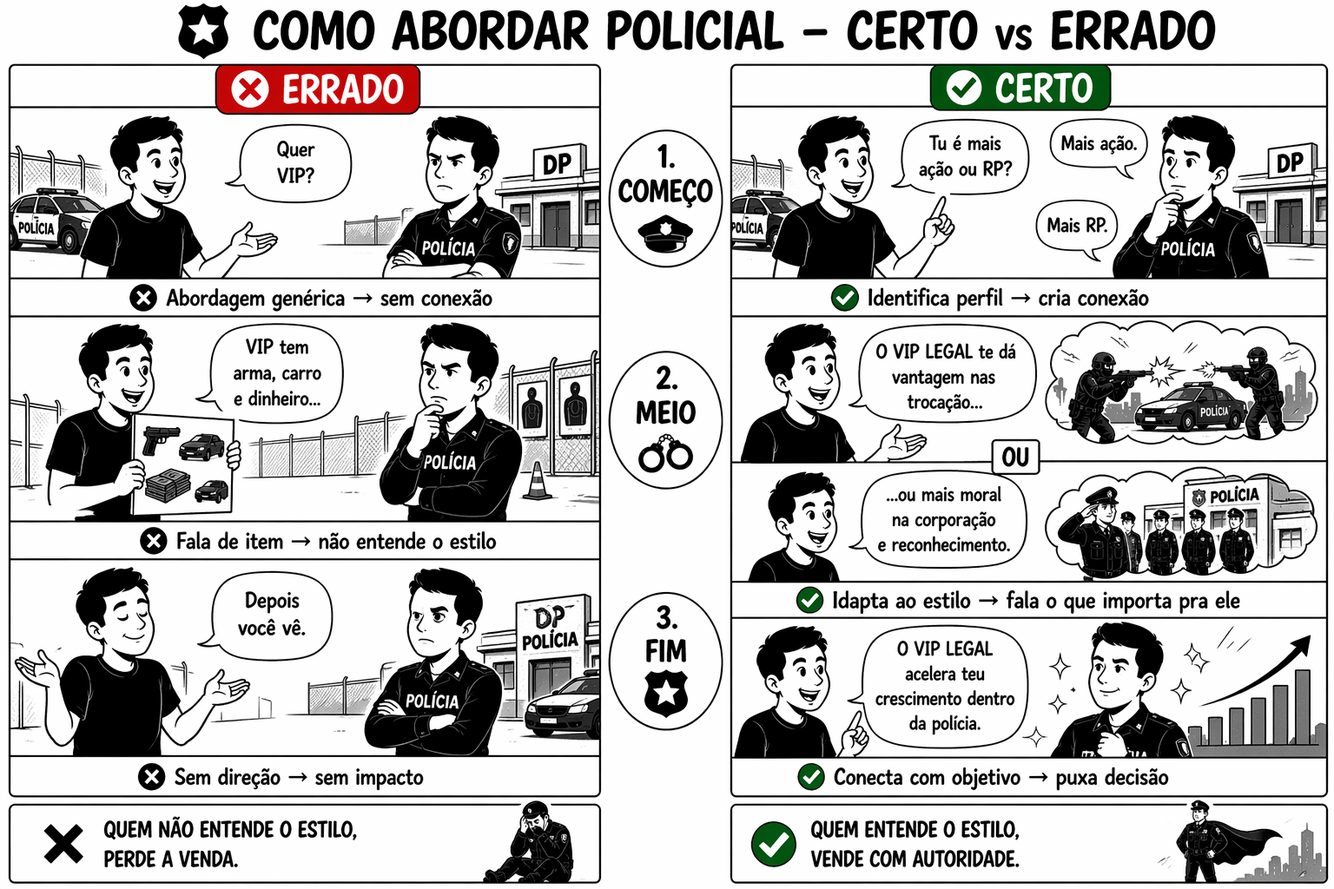
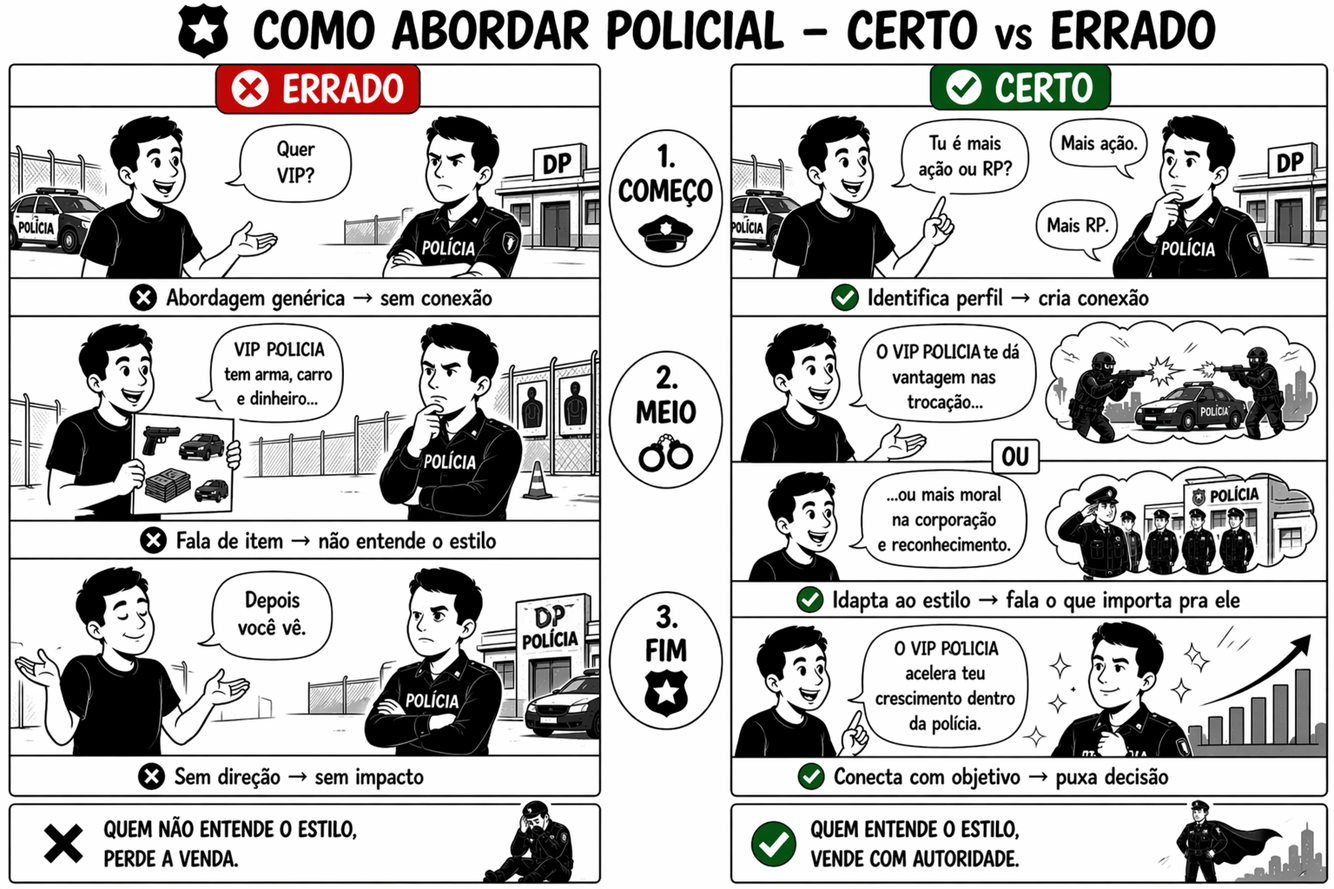
Add files via upload

diff --git a/app.js b/app.js
@@ -7,10 +7,10 @@ const DataAccess = {
             description: 'Essa etapa ensina como abordar um líder de facção e fazer ele desejar crescer, dominar e construir uma facção grande e respeitada.',
             image: 'dono de faccao.jpg',
             sections: [
-                { isSectionTitle: true, title: 'COMO ABORDAR (LIDER DE FACÇÃO)' },
+                { isSectionTitle: true, title: 'COMO ABORDAR (LÍDER DE FACÇÃO)' },
                 { isFull: true, title: '🎯 Abordagem Estratégica & Foco', items: [
                     '“E aí mano, como que tá tua fac hoje?”', 
-                    '“Quantos membros estão pegando ativos aí a noite? Tu quer crescer mais ainda ou tá suave como tá?”', 
+                    '“Quantos membros estão pegando ativos aí à noite? Tu quer crescer mais ainda ou tá suave como tá?”', 
                     '“O que mais tá pegando hoje? Fac tá com muito farm aí? Tem bastante grana? Tá ganhando os eventos?”',
                     '---',
                     '“Mano, facção grande não cresce só na bala... Tem que ter estrutura aqui para as pessoas quererem ficar.”', 
@@ -24,7 +24,7 @@ const DataAccess = {
                     '---', 
                     '<div style="text-align: left;">🏆 <strong>Ele não quer item — ele quer uma facção dominante.</strong></div>'
                 ]},
-                { isFull: true, isRecommendationHeader: true, title: '🛒 3. Recomendações de Produtos', items: [] },
+                { isFull: true, isRecommendationHeader: true, title: '🛒 Recomendações de Produtos', items: [] },
                 { title: '🏰 VIP Facção Premium', items: [
                     '<div class="aligned-list-item"><strong class="checkIcon">✔</strong> <span>Mais carros, baú extra e log de baú.</span></div>', 
                     '<div class="aligned-list-item"><strong class="checkIcon">✔</strong> <span>Mais controle para o Líder.</span></div>', 
@@ -64,7 +64,7 @@ const DataAccess = {
             id: 'novato',
             shortTitle: 'Novato (Iniciante) 🔰',
             title: 'Cliente Novato (Iniciante) 🔰',
-            description: 'Você está começando agora. A gente te ajuda a evoluir e ficar forte na cidade!',
+            description: 'Essa etapa ensina como abordar um novato e fazer ele desejar ser reconhecido, crescer, dominar e construir uma reputação respeitada na cidade.',
             image: 'novato.jpg',
             sections: [
                 { isSectionTitle: true, title: 'COMO ABORDAR (NOVATO)' },
@@ -80,9 +80,23 @@ const DataAccess = {
                     '<span style="font-size: 1.35rem; display: block; margin: 12px 0; color: var(--accent-gold); font-weight: 800; text-align: left;">🛍 O QUE VOCÊ ESTÁ VENDENDO DE VERDADE:</span>', 
                     '<div class="aligned-list-item"><strong class="bulletIcon">•</strong> <span>🚀 Evolução rápida.</span></div>', 
                     '<div class="aligned-list-item"><strong class="bulletIcon">•</strong> <span>⚡ Vantagem inicial.</span></div>', 
-                    '<div class="aligned-list-item"><strong class="bulletIcon">•</strong> <span>😌 Facilidade (menos dor de cabeça).</span></div>', 
-                    '---', 
-                    '<div style="text-align: left;">🏁 <strong>Ele não quer ficar perdido — quer começar forte!</strong></div>'
+                    '<div class="aligned-list-item"><strong class="bulletIcon">•</strong> <span>😌 Facilidade (menos dor de cabeça).</span></div>'
+                ]},
+                { isFull: true, isRecommendationHeader: true, title: '🛒 Recomendações de Produtos', items: [] },
+                { title: '🥇 VIP OURO', items: [
+                    '<div class="aligned-list-item"><strong class="checkIcon">✔</strong> <span>Foco principal de evolução.</span></div>'
+                ]},
+                { title: '🚀 VIP LANÇAMENTO', items: [
+                    '<div class="aligned-list-item"><strong class="checkIcon">✔</strong> <span>Exclusividade e benefícios.</span></div>'
+                ]},
+                { title: '🚗 VEÍCULOS START', items: [
+                    '<div class="aligned-list-item"><strong class="checkIcon">✔</strong> <span>Perfeito para a entrada.</span></div>'
+                ]},
+                { title: '🎟 SANTAPASS', items: [
+                    '<div class="aligned-list-item"><strong class="checkIcon">✔</strong> <span>Recompensas e itens únicos.</span></div>'
+                ]},
+                { isCenteredCard: true, title: '🎵 SANTAFY', items: [
+                    '<div class="aligned-list-item"><strong class="checkIcon">✔</strong> <span>Garante uma experiência melhor na cidade.</span></div>'
                 ]},
                 { isError: true, title: '❌ ERROS DO VENDEDOR (CLIENTE INICIANTE)', items: [
                     '<div class="aligned-list-item"><strong>🚫</strong> <span>Não entender que ele é iniciante.</span></div>', 
@@ -98,7 +112,7 @@ const DataAccess = {
             id: 'policial',
             shortTitle: 'Policial (PVP / RP) 🚓',
             title: 'Cliente Policial (PVP / RP) 🚓',
-            description: 'Entenda o jogador, conecte o produto com o que ele valoriza: UTILIDADE E RECONHECIMENTO.',
+            description: 'Essa etapa ensina como abordar um policial e fazer ele desejar crescer de patente na corporação, construir uma reputação e ser respeitado na cidade.',
             image: 'policial.jpg',
             sections: [
                 { isSectionTitle: true, title: 'COMO ABORDAR (POLICIAL)' },
@@ -110,24 +124,38 @@ const DataAccess = {
                     '“Mano, tendo VIP tu acaba ganhando muita moral... A galera sempre pede carro emprestado.”', 
                     '“Suas ações te deixam conhecido como gente boa, útil — e isso pesa MUITO para subir de cargo.”', 
                     '---', 
-                    '<span style="font-size: 1.35rem; display: block; margin: 12px 0; color: var(--accent-gold); font-weight: 800; text-align: left;">🛍 VENDENDO DE VERDADE:</span>', 
+                    '<span style="font-size: 1.35rem; display: block; margin: 12px 0; color: var(--accent-gold); font-weight: 800; text-align: left;">🛍 O QUE VOCÊ ESTÁ VENDENDO DE VERDADE:</span>', 
                     '<div class="aligned-list-item"><strong class="bulletIcon">•</strong> <span>🛠 Utilidade (ferramentas, economia de tempo).</span></div>', 
                     '<div class="aligned-list-item"><strong class="bulletIcon">•</strong> <span>🎖 Reconhecimento (status na corporação, autoridade).</span></div>'
                 ]},
+                { isFull: true, isRecommendationHeader: true, title: '🛒 Recomendações de Produtos', items: [] },
+                { title: '👮♂ PERFIL: POLICIAL RP', items: [
+                    '<div style="margin-bottom: 12px; color: #ccc; font-size: 0.95rem;">Focado em evolução dentro da corporação, reconhecimento e presença na cidade.</div>',
+                    '<div class="aligned-list-item"><strong class="checkIcon">💎</strong> <span><strong>VIP Polícia:</strong> vantagens dentro do RP policial</span></div>',
+                    '<div class="aligned-list-item"><strong class="checkIcon">🏡</strong> <span><strong>Voucher de Casa:</strong> estrutura e estabilidade</span></div>',
+                    '<div class="aligned-list-item"><strong class="checkIcon">🆔</strong> <span><strong>ID:</strong> identidade e presença na cidade</span></div>'
+                ], footer: '➡ Ideal para quem quer crescer de patente, construir reputação e ser respeitado no RP' },
+                { title: '🔫 PERFIL: POLICIAL PvP', items: [
+                    '<div style="margin-bottom: 12px; color: #ccc; font-size: 0.95rem;">Focado em combate, desempenho e superioridade nas ações.</div>',
+                    '<div class="aligned-list-item"><strong class="checkIcon">⚡</strong> <span><strong>VIP PvP:</strong> vantagem direta em combate</span></div>',
+                    '<div class="aligned-list-item"><strong class="checkIcon">👑</strong> <span><strong>VIP Platinum:</strong> pacote mais completo e forte</span></div>',
+                    '<div class="aligned-list-item"><strong class="checkIcon">👕</strong> <span><strong>Peça de Roupa Exclusiva:</strong> identidade visual e destaque</span></div>'
+                ], footer: '➡ Ideal para quem quer dominar ações, ter desempenho alto e impor respeito no PvP' },
                 { isError: true, title: '❌ ERROS DO VENDEDOR (CLIENTE POLICIAL)', items: [
                     '<div class="aligned-list-item"><strong>🚫</strong> <span>Não entender se ele é focado em PVP ou RP.</span></div>', 
                     '<div class="aligned-list-item"><strong>🚫</strong> <span>Ignorar o tempo de corporação e o cargo dele.</span></div>', 
                     '<div class="aligned-list-item"><strong>🚫</strong> <span>Não oferecer utilidade para a rotina dele.</span></div>', 
                     '<div class="aligned-list-item"><strong>🚫</strong> <span>Não ativar o gatilho de status perante os colegas.</span></div>', 
                     '<div class="aligned-list-item"><strong>🚫</strong> <span>Focar só em preço e não em moral/destaque.</span></div>'
-                ]}
+                ]},
+                { isComic: true, title: '⚽ ESTRATÉGIA DE ABORDAGEM: CERTO vs ERRADO', image: 'quadrinho_policial.jpg' }
             ]
         },
         'medico': {
             id: 'medico',
             shortTitle: 'Médico (RP) 👨⚕',
             title: 'Cliente Médico (RP) 👨⚕',
-            description: 'Vender para um médico não é falar do produto. É ENTENDER, CONECTAR E GERAR VALOR REAL.',
+            description: 'Essa etapa ensina como abordar um médico e fazer ele desejar crescer na hierarquia do hospital, ter status social e respeito na cidade.',
             image: 'medico.jpg',
             sections: [
                 { isSectionTitle: true, title: 'COMO ABORDAR (MÉDICO)' },
@@ -139,16 +167,23 @@ const DataAccess = {
                     '“Resultados extraordinários vêm de estrutura, pessoas e processos.”', 
                     '“Aqui dentro tu não precisa ser só mais um médico... Tu pode ser referência na cidade.”', 
                     '---', 
-                    '<span style="font-size: 1.35rem; display: block; margin: 12px 0; color: var(--accent-gold); font-weight: 800; text-align: left;">🛍 O QUE VENDER PARA O MÉDICO:</span>',
-                    '<div class="aligned-list-item"><strong class="checkIcon">✔</strong> <span>Mansão</span></div>',
-                    '<div class="aligned-list-item"><strong class="checkIcon">✔</strong> <span>VIP</span></div>',
-                    '<div class="aligned-list-item"><strong class="checkIcon">✔</strong> <span>Voucher de casa</span></div>',
-                    '<div class="aligned-list-item"><strong class="checkIcon">✔</strong> <span>Santapass</span></div>'
+                    '<span style="font-size: 1.35rem; display: block; margin: 12px 0; color: var(--accent-gold); font-weight: 800; text-align: left;">🛍 O QUE VOCÊ ESTÁ VENDENDO DE VERDADE:</span>',
+                    '<div class="aligned-list-item"><strong class="bulletIcon">•</strong> <span>⚡ Praticidade (menos tempo perdido, mais eficiência no dia a dia)</span></div>',
+                    '<div class="aligned-list-item"><strong class="bulletIcon">•</strong> <span>🛋 Conforto (descanso, qualidade de vida após plantão)</span></div>',
+                    '<div class="aligned-list-item"><strong class="bulletIcon">•</strong> <span>🏆 Reconhecimento (status como médico referência na cidade)</span></div>'
                 ]},
-                { isFull: true, title: '🛡 Lidando com Objeções', items: [
-                    '“Entendo. Mas compara isso com o valor que isso vai gerar na tua vida e no teu nome.”', 
-                    '“Se tu tá se perguntando isso... É porque já viu valor. A diferença é até onde tu quer chegar.”', 
-                    '“Perfeito! Posso te mostrar alguns resultados rápidos que já podemos alcançar juntos?”'
+                { isFull: true, isRecommendationHeader: true, title: '🛒 Recomendações de Produtos', items: [] },
+                { title: '🏡 MANSÃO', items: [
+                    '<div class="aligned-list-item"><strong class="checkIcon">✔</strong> <span>Status máximo e espaço para a equipe.</span></div>'
+                ]},
+                { title: '👑 VIP LANÇAMENTO', items: [
+                    '<div class="aligned-list-item"><strong class="checkIcon">✔</strong> <span>Benefícios gerais e respeito na cidade.</span></div>'
+                ]},
+                { title: '🏠 VOUCHER DE CASA', items: [
+                    '<div class="aligned-list-item"><strong class="checkIcon">✔</strong> <span>Conforto, exclusividade e utilidade.</span></div>'
+                ]},
+                { title: '🎟 SANTAPASS', items: [
+                    '<div class="aligned-list-item"><strong class="checkIcon">✔</strong> <span>Recompensas e itens únicos.</span></div>'
                 ]},
                 { isError: true, title: '❌ ERROS DO VENDEDOR (CLIENTE MÉDICO)', items: [
                     '<div class="aligned-list-item"><strong>🚫</strong> <span>Não respeitar o tempo dele (médicos são ocupados).</span></div>', 
@@ -163,7 +198,7 @@ const DataAccess = {
             id: 'staff',
             shortTitle: 'STAFF (400H+) 🛡',
             title: 'Cliente STAFF ou (400H+) 🛡',
-            description: 'Esse cliente já tem história. Ele não compra por precisar — ele compra para MARCAR O NOME DELE.',
+            description: 'Essa etapa ensina como abordar um staff e fazer ele querer subir na hierarquia, ter voz dentro da equipe e ser reconhecido como referência na cidade.',
             image: 'staff.jpg',
             sections: [
                 { isSectionTitle: true, title: 'COMO ABORDAR (STAFF)' },
@@ -179,13 +214,18 @@ const DataAccess = {
                     '<div class="aligned-list-item"><strong class="bulletIcon">•</strong> <span>🎭 Identidade e presença.</span></div>', 
                     '<div class="aligned-list-item"><strong class="bulletIcon">•</strong> <span>🏆 Reconhecimento marcado na cidade.</span></div>'
                 ]},
-                { isFull: true, title: '🛒 Recomendações de Produtos', items: [
-                    '⚠ <strong>Foco Total em Identidade:</strong> "Tu já fez tudo... Agora falta ser reconhecido."', 
-                    '---', 
-                    '<div class="aligned-list-item"><strong>🆔 ID Exclusivo (< 1000):</strong> <span>Curto, marcante e respeitado.</span></div>', 
-                    '<div class="aligned-list-item"><strong>👕 Roupa Personalizada:</strong> <span>Visual único e reconhecimento imediato.</span></div>', 
-                    '<div class="aligned-list-item"><strong>👑 VIP Lançamento:</strong> <span>Benefícios gerais.</span></div>', 
-                    '<div class="aligned-list-item"><strong>🔫 Skin de Arma:</strong> <span>Destaque visual.</span></div>'
+                { isFull: true, isRecommendationHeader: true, title: '🛒 Recomendações de Produtos', items: [] },
+                { title: '🆔 ID EXCLUSIVO (< 1000)', items: [
+                    '<div class="aligned-list-item"><strong class="checkIcon">✔</strong> <span>Curto, marcante e respeitado por todos.</span></div>'
+                ]},
+                { title: '👕 ROUPA PERSONALIZADA', items: [
+                    '<div class="aligned-list-item"><strong class="checkIcon">✔</strong> <span>Visual único e reconhecimento imediato.</span></div>'
+                ]},
+                { title: '👑 VIP LANÇAMENTO', items: [
+                    '<div class="aligned-list-item"><strong class="checkIcon">✔</strong> <span>Todos os benefícios exclusivos de ponta.</span></div>'
+                ]},
+                { title: '🔫 SKIN DE ARMA', items: [
+                    '<div class="aligned-list-item"><strong class="checkIcon">✔</strong> <span>Destaque visual em qualquer ação.</span></div>'
                 ]},
                 { isError: true, title: '❌ ERROS DO VENDEDOR (CLIENTE STAFF)', items: [
                     '<div class="aligned-list-item"><strong>🚫</strong> <span>Não respeitar a história dele no servidor.</span></div>', 
@@ -201,9 +241,9 @@ const DataAccess = {
     getCategories: () => [
         { id: 'olheiro', title: '🕵♂ Olheiro', desc: 'Olheiro é a primeira etapa da venda. Antes de abordar o player, observe-o para entender o melhor momento.' },
         { id: 'defesa', title: '🛡 Defesa', desc: 'A defesa é a segunda etapa da venda: quando você ganha a atenção do cliente e abre a conversa.' },
-        { id: 'meio', title: '⚽ Meio de Campo', desc: 'O meio de campo é a terceira etapa da venda: entender a necessidade do cliente através de perguntas chaves.' },
+        { id: 'meio', title: '⚽ Meio de Campo', desc: 'O meio de campo é a terceira etapa da venda: entender a necessidade do cliente através de perguntas-chave.' },
         { id: 'ataque', title: '⚔ Ataque', desc: 'O ataque é a quarta etapa da venda: é o momento de transformar a dor em solução, gerar desejo e criar urgência para fechar.' },
-        { id: 'fechamento', title: '🤝 Fechamento', desc: 'Apresentar as formas de pagamento: Cartão de Crédito/Pix.' },
+        { id: 'fechamento', title: '🤝 Fechamento', desc: 'Apresentar as formas de pagamento e finalizar a venda com técnicas de conversão.' },
         { id: 'posvenda', title: '📦 Pós Venda', desc: 'Ir até o cliente ver se os itens chegaram corretamente e realizar serviços de tunagem.' }
     ],
 
@@ -237,16 +277,16 @@ const DataAccess = {
                 ]
             },
             'meio': {
-                id: 'meio', title: "Meio de Campo", description: "Entender a necessidade do cliente através de perguntas chaves.", image: "meio-campo.jpg",
+                id: 'meio', title: "Meio de Campo", description: "Entender a necessidade do cliente através de perguntas-chave.", image: "meio-campo.jpg",
                 sections: [
                     { isSectionTitle: true, title: "COMO ABORDAR (MEIO DE CAMPO)" },
-                    { title: "🎯 Objetivo Meio de Campo", items: ['<div class="aligned-list-item"><strong>🗣</strong> <span>Conduzir o cliente fazendo perguntas chaves.</span></div>', '<div class="aligned-list-item"><strong>🧠</strong> <span>Entender o que oferecer para o cliente.</span></div>', '<div class="aligned-list-item"><strong>🤝</strong> <span>Conectar com a realidade dele.</span></div>', '<div class="aligned-list-item"><strong>📦</strong> <span>Preparar para oferecer.</span></div>'] },
+                    { title: "🎯 Objetivo Meio de Campo", items: ['<div class="aligned-list-item"><strong>🗣</strong> <span>Conduzir o cliente fazendo perguntas-chave.</span></div>', '<div class="aligned-list-item"><strong>🧠</strong> <span>Entender o que oferecer para o cliente.</span></div>', '<div class="aligned-list-item"><strong>🤝</strong> <span>Conectar com a realidade dele.</span></div>', '<div class="aligned-list-item"><strong>📦</strong> <span>Preparar para oferecer.</span></div>'] },
                     { title: "🔍 Indícios de Interesse", items: ['<div class="aligned-list-item"><strong>✅</strong> <span>Responde rápido.</span></div>', '<div class="aligned-list-item"><strong>🗣</strong> <span>Fala mais que você.</span></div>', '<div class="aligned-list-item"><strong>❓</strong> <span>Faz perguntas.</span></div>', '<div class="aligned-list-item"><strong>📈</strong> <span>Engaja na conversa.</span></div>'] },
                     { title: "🎯 Foco da Conversa", items: ['<div class="aligned-list-item"><strong>🔥</strong> <span>Gerar interesse.</span></div>', '<div class="aligned-list-item"><strong>🛡</strong> <span>Passar confiança.</span></div>', '<div class="aligned-list-item"><strong>🧭</strong> <span>Dar direção ao cliente.</span></div>', '---', '<div class="aligned-list-item"><strong>🚫</strong> <span>Não deixar o cliente desviar do assunto principal.</span></div>', '<div class="aligned-list-item"><strong>⏳</strong> <span>Não ficar apenas conversando sem intenção de venda.</span></div>', '<div class="aligned-list-item"><strong>🔗</strong> <span>Sempre conecte a conversa com a solução da venda.</span></div>'], warning: "Se o cliente dispersar ou você perder o foco, a venda esfria." },
                     { title: "📢 Sinais de Abertura (Ataque!)", items: ['<div class="aligned-list-item"><strong>💲</strong> <span>Pergunta o preço.</span></div>', '<div class="aligned-list-item"><strong>📦</strong> <span>Pede detalhes sobre o produto.</span></div>', '<div class="aligned-list-item"><strong>🛒</strong> <span>Pergunta o que você vende.</span></div>', '<div class="aligned-list-item"><strong>👤</strong> <span>Pergunta se você é vendedor.</span></div>'], footer: "🔥 Identificou isso? Pare de enrolar e comece o ATAQUE." },
                     { title: "⚠ Ponto Mais Importante", items: ['<div class="aligned-list-item"><strong>👀</strong> <span>Identificar a abertura.</span></div>', '<div class="aligned-list-item"><strong>🎣</strong> <span>Encontrar a dor do cliente.</span></div>', '<div class="aligned-list-item"><strong>🗺</strong> <span>Mostrar o caminho, falando de algum produto.</span></div>'], warning: "O maior erro do vendedor é não perceber quando já pode vender (o tempo certo)." },
                     { title: "🧠 Perguntas que Quebram o Padrão", items: ['<div class="aligned-list-item"><strong>🎓</strong> <span>“Tu já tá desenrolando bem na fac ou ainda tá travado?”</span></div>', '<div class="aligned-list-item"><strong>⛏</strong> <span>“Já tá conseguindo farmar bem aí ou tá difícil evoluir?”</span></div>', '<div class="aligned-list-item"><strong>💸</strong> <span>“Já tá conseguindo fazer dinheiro ou tá lento ainda?”</span></div>'] },
-                    { isError: true, title: "❌ ERROS DO VENDEDOR (CLIENTE MEIO)", items: ['<div class="aligned-list-item"><strong>🌪</strong> <span>Perder o foco da conversa.</span></div>', '<div class="aligned-list-item"><strong>🔀</strong> <span>Deixar o cliente mudar totalmente o assunto.</span></div>', '<div class="aligned-list-item"><strong>🗣</strong> <span>Responder tudo sem puxar de volta para o objetivo.</span></div>', '<div class="aligned-list-item"><strong>🔌</strong> <span>Não conectar a dor con a solução.</span></div>'], footer: "💡 <strong>Dor</strong> = O motivo emocional ou prático que faz o cliente querer comprar." }
+                    { isError: true, title: "❌ ERROS DO VENDEDOR (CLIENTE MEIO)", items: ['<div class="aligned-list-item"><strong>🌪</strong> <span>Perder o foco da conversa.</span></div>', '<div class="aligned-list-item"><strong>🔀</strong> <span>Deixar o cliente mudar totalmente o assunto.</span></div>', '<div class="aligned-list-item"><strong>🗣</strong> <span>Responder tudo sem puxar de volta para o objetivo.</span></div>', '<div class="aligned-list-item"><strong>🔌</strong> <span>Não conectar a dor com a solução.</span></div>'], footer: "💡 <strong>Dor</strong> = O motivo emocional ou prático que faz o cliente querer comprar." }
                 ],
                 videoCategories: [{ title: "Exemplos na Prática", videos: [{ label: "EXEMPLO CERTO", url: "https://drive.google.com/file/d/1XkFB2k2B9SfmVVZMYzBXF3dotWcL8xeo/preview", color: "#22c55e" }, { label: "EXEMPLO ERRADO", url: "https://drive.google.com/file/d/1eW3zORlLH6M20KGBbKCQ1BSR1QWh5a10/preview", color: "#ef4444" }]}]
             },
@@ -256,19 +296,68 @@ const DataAccess = {
                     { isSectionTitle: true, title: "COMO ABORDAR (ATAQUE)" },
                     { title: "🧠 Conceito: Dor, Desejo e Urgência", items: ["⚖ Venda forte é o equilíbrio entre:", "<div style='text-align: left; font-weight: 800; color: var(--accent-gold); margin: 5px 0;'>🎯 Dor + Desejo + Urgência</div>", "---", '<div class="aligned-list-item"><strong>🧊</strong> <span>Sem dor ➔ Não conecta.</span></div>', '<div class="aligned-list-item"><strong>😴</strong> <span>Sem desejo ➔ Não engaja.</span></div>', '<div class="aligned-list-item"><strong>🛑</strong> <span>Sem urgência ➔ Não fecha.</span></div>'] },
                     { title: "⚙ Como Funciona na Prática", items: ['🔗 A venda acontece quando você conecta os três pilares:', '<div class="aligned-list-item"><strong>1⃣</strong> <span>Faz ele sentir o problema (Dor).</span></div>', '<div class="aligned-list-item"><strong>2⃣</strong> <span>Mostra o que ele pode ganhar (Desejo).</span></div>', '<div class="aligned-list-item"><strong>3⃣</strong> <span>Dá um motivo para agir agora (Urgência).</span></div>']},
-                    { title: "🚀 Exemplo Forte (Pronto para Uso)", items: ['<div class="aligned-list-item"><strong>🔥 Dor:</strong> <span>“Do jeito que você está, vai evoluir bem mais devagar.”</span></div>', '<div class="aligned-list-item"><strong>✨ Desejo:</strong> <span>“Com esse VIP, você entra em outro nível dentro da cidade.”</span></div>', '<div class="aligned-list-item"><strong>⚡ Urgência:</strong> <span>“E pegando agora, você aproveita essa condição antes que acabe.”</span></div>']},
+                    { title: "🚀 Exemplo Forte", items: ['<div class="aligned-list-item"><strong>🔥 Dor:</strong> <span>“Do jeito que você está, vai evoluir bem mais devagar.”</span></div>', '<div class="aligned-list-item"><strong>✨ Desejo:</strong> <span>“Com esse VIP, você entra em outro nível na cidade.”</span></div>', '<div class="aligned-list-item"><strong>⚡ Urgência:</strong> <span>“Pegando agora, você aproveita essa condição antes que acabe.”</span></div>']},
                     { title: "🔥 Dor (O Problema)", items: ["🐢 Está evoluindo devagar.", "👻 Está sem destaque na cidade.", "🐌 Está ficando para trás.", "💸 Está gastando mais do que deveria."] },
                     { title: "✨ Desejo (O que ele quer conquistar)", items: ["🚀 Evoluir mais rápido.", "👑 Ter mais presença e respeito.", "🥇 Ter vantagem sobre outros players.", "🏰 Entrar já estruturado."] },
                     { title: "⚡ Urgência (O Gatilho)", items: ["“Essa condição é só agora.”", "“Depois você vai pagar mais caro.”", "“Quem pega agora sai na frente.”"] },
-                    { isError: true, title: "❌ ERROS DO VENDEDOR (CLIENTE ATAQUE)", items: ['<div class="aligned-list-item"><strong>🎯 Focar demais na dor:</strong> <span>Pode parecer pressão exagerada.</span></div>', '<div class="aligned-list-item"><strong>🧩 Desejo genérico:</strong> <span>“Vantagem” sem contexto real.</span></div>', '<div class="aligned-list-item"><strong>⏱ Urgência forçada:</strong> <span>Mentir sobre prazo quebra a confiança.</span></div>', '<div class="aligned-list-item"><strong>🤖 Sequência robótica:</strong> <span>Ficar só no script sem ouvir o cliente.</span></div>'] }
+                    { isError: true, title: "❌ ERROS DO VENDEDOR (CLIENTE ATAQUE)", items: ['<div class="aligned-list-item"><strong>🎯</strong> <span>Focar demais na dor (pressão exagerada).</span></div>', '<div class="aligned-list-item"><strong>🧩</strong> <span>Desejo genérico (sem contexto real).</span></div>', '<div class="aligned-list-item"><strong>⏱</strong> <span>Urgência forçada ou mentirosa.</span></div>', '<div class="aligned-list-item"><strong>🤖</strong> <span>Sequência robótica / automática.</span></div>'] }
                 ]
             },
             'fechamento': {
-                id: 'fechamento', title: "Fechamento", description: "Formas de pagamento e finalização.", image: "gemini.jpg",
+                id: 'fechamento', title: "Fechamento", description: "Fechamento de Venda — Padrão SG: Ancoragem, quebra de objeção, urgência e conversão matadora.", image: "gemini.jpg",
                 sections: [
-                    { isSectionTitle: true, title: "COMO ABORDAR (FECHAMENTO)" },
-                    { title: "💳 Formas de Pagamento", items: ["✔ Cartão de Crédito.", "✔ Pix (Transferência imediata)."], footer: "💡 Facilite ao máximo o processo de pagamento." },
-                    { title: "🎯 Finalização", items: ["Garantir a concordância total do cliente com os valores.", "Finalizar no sistema de forma rápida e segura."] }
+                    { isSectionTitle: true, title: "💰 FECHAMENTO DE VENDA — FORTE" },
+                    { title: "🧠 Estrutura Mental do Fechamento", items: [
+                        '<div class="aligned-list-item"><strong>👉</strong> <span>Primeiro você <strong>reforça valor</strong></span></div>',
+                        '<div class="aligned-list-item"><strong>👉</strong> <span>Depois <strong>ancora preço</strong></span></div>',
+                        '<div class="aligned-list-item"><strong>👉</strong> <span>Depois <strong>quebra objeção</strong> com pagamento</span></div>',
+                        '<div class="aligned-list-item"><strong>👉</strong> <span>Finaliza com <strong>urgência</strong></span></div>'
+                    ]},
+                    { title: '🔥 Modelo Pronto (Dor e Desejo)', items: [
+                        '“Então, olha só… do jeito que você tá hoje, você vai acabar gastando muito mais tempo e dinheiro pra chegar nesse nível.” <br><div style="color:#aaa; font-size:0.9rem; margin-top: 4px;">👉 (DOR leve + lógica)</div>',
+                        '---',
+                        '“Esse pacote aqui já te entrega tudo pronto — estrutura, vantagem e presença na cidade.” <br><div style="color:#aaa; font-size:0.9rem; margin-top: 4px;">👉 (DESEJO)</div>'
+                    ]},
+                    { title: '💸 Ancoragem', items: [
+                        '“Se você fosse pegar tudo separado, passaria fácil de R$XXX…”',
+                        '“Mas nesse formato aqui, você já resolve tudo de uma vez e economiza.”',
+                        '---',
+                        '<div style="color: var(--accent-gold); font-weight: 800;">👉 Aqui você cria percepção de vantagem</div>'
+                    ]},
+                    { title: '💳 Quebra de Objeção (Pagamento)', items: [
+                        '“E o melhor, nem precisa pesar agora…”',
+                        '“Você pode fazer no <strong>Pix</strong>, ou dividir no <strong>cartão de crédito</strong>.”',
+                        '“Se for internacional, dá pra pagar tranquilo pelo <strong>Revolut</strong> ou <strong>Wise</strong> também.”',
+                        '---',
+                        '<div style="color: var(--accent-gold); font-weight: 800;">👉 Aqui você tira a barreira mental</div>'
+                    ]},
+                    { title: '⏰ Urgência (Fechamento Final)', items: [
+                        '“E sendo bem direto contigo, essa condição que eu te passei é só agora.”',
+                        '“Se deixar pra depois, você provavelmente vai pagar mais caro ou perder esse pacote.”'
+                    ]},
+                    { title: '🎯 Fechamento Direto (Matador)', items: [
+                        '“Se fizer sentido pra você, já posso te mandar o Pix ou o link do cartão agora e deixar isso tudo ativo pra você hoje mesmo.”'
+                    ]},
+                    { isFull: true, title: '⚔ Versão Mais Agressiva', items: [
+                        '<div style="color:#ccc; font-size:0.95rem; margin-bottom: 12px;">(Usar quando o cliente já quer)</div>',
+                        '“Sendo sincero contigo — isso aqui não é gasto, é você evitar gastar depois.”',
+                        '“Quem pega isso agora já sai na frente, quem deixa pra depois sempre paga mais.”',
+                        '“Quer fazer no Pix ou prefere parcelar no cartão?”',
+                        '---',
+                        '<div style="color: var(--accent-gold); font-weight: 800;">👉 Aqui você já força decisão</div>'
+                    ]},
+                    { title: '🧠 Gatilhos que você usou', items: [
+                        '<div class="aligned-list-item"><strong class="checkIcon">✔</strong> <span><strong>Ancoragem</strong> → “separado sairia mais caro”</span></div>',
+                        '<div class="aligned-list-item"><strong class="checkIcon">✔</strong> <span><strong>Quebra de objeção</strong> → múltiplos pagamentos</span></div>',
+                        '<div class="aligned-list-item"><strong class="checkIcon">✔</strong> <span><strong>Urgência</strong> → “só agora”</span></div>',
+                        '<div class="aligned-list-item"><strong class="checkIcon">✔</strong> <span><strong>Direcionamento</strong> → pergunta final fechada</span></div>'
+                    ]},
+                    { isError: true, title: '🔑 DICA DE OURO (NÍVEL PRO)', items: [
+                        '<div class="aligned-list-item"><strong>❌ ERRO:</strong> <span>“Se quiser me chama…”</span></div>',
+                        '<div class="aligned-list-item"><strong style="color:#22c55e;">✅ CERTO:</strong> <span style="color:#fff;">“Prefere Pix ou cartão?”</span></div>',
+                        '---',
+                        '<div style="color: var(--accent-gold); font-weight: 800;">👉 Sempre termina com pergunta de decisão, nunca aberta.</div>'
+                    ]}
                 ]
             },
             'posvenda': {
@@ -375,9 +464,6 @@ const Controller = {
                     
                     .centeredRecommendationCard { grid-column: 1 / -1 !important; justify-self: center !important; width: 100% !important; max-width: 600px !important; }
                     .listDivider { margin: 15px 0; border-bottom: 1px solid rgba(255,255,255,0.1); width: 100%; list-style: none; }
-
-                    .sidebarFooter { padding: 1.5rem 1rem; text-align: center; border-top: 1px solid rgba(255,255,255,0.05); margin-top: auto; font-size: 0.72rem; color: rgba(255,255,255,0.2); letter-spacing: 0.5px; text-transform: uppercase; }
-                    .sidebarFooter strong { color: rgba(212,175,55,0.45); font-weight: 700; margin-left: 4px; }
                 </style>
                 <div class="layoutContainer">
                     <aside class="sidebarNavigation">
@@ -403,9 +489,6 @@ const Controller = {
                                     `;
                                 }).join('')}
                             </nav>
-                        </div>
-                        <div class="sidebarFooter">
-                            Desenvolvido por <strong>Vz & Surfista</strong>
                         </div>
                     </aside>
                     <main class="mainWorkspace">
